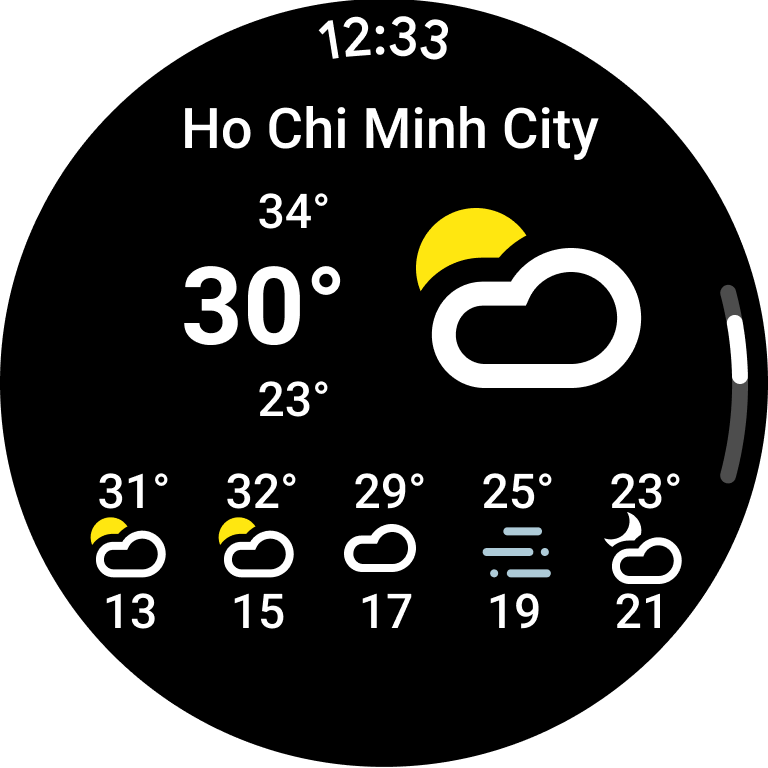
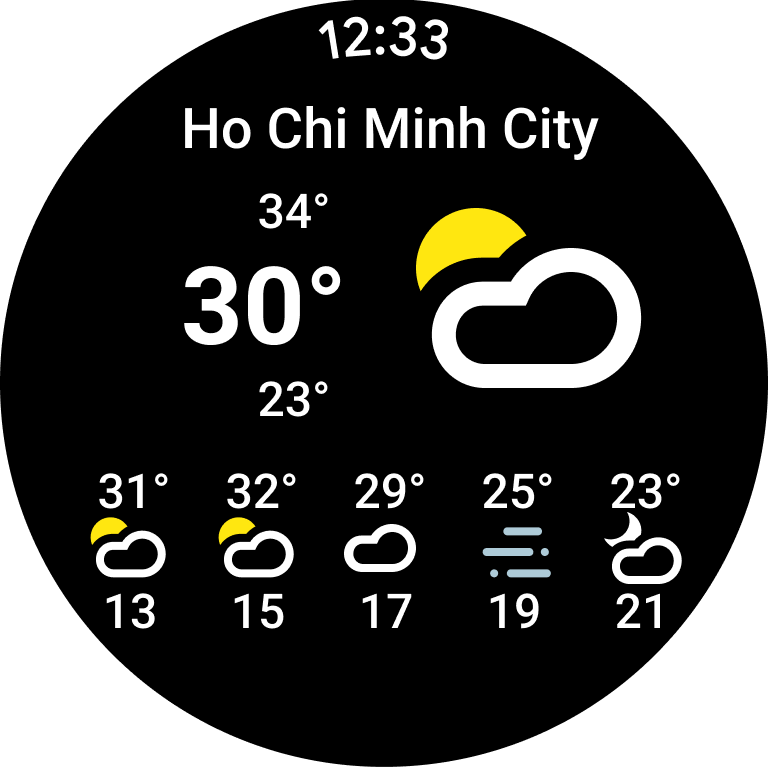
fix display

Changed region(s): [[0.9375, 0.375, 1.0, 0.625]]

diff --git a/lib/template/page_template.dart b/lib/template/page_template.dart
@@ -7,7 +7,7 @@ class PageTemplate extends StatelessWidget {
   final Color color;
 
   // Constructor
-  const PageTemplate({Key? key, required this.child, this.color = Colors.black})
+  const PageTemplate({Key? key, required this.child, this.color = Colors.white})
       : super(key: key);
 
   @override
@@ -18,10 +18,11 @@ class PageTemplate extends StatelessWidget {
     double watchSize = (globalController.getWatchSize());
 
     return Scaffold(
-      backgroundColor: color,
+      backgroundColor: globalController.isCircleDevice() ? Colors.black : color,
       body: Center(
         child: ClipOval(
-          child: SizedBox(
+          child: Container(
+            color: globalController.isCircleDevice() ? Colors.black : color,
             width: watchSize,
             height: watchSize,
             child: child,

diff --git a/lib/clock_widget/widget_demo.dart b/lib/clock_widget/widget_demo.dart
@@ -1,5 +1,4 @@
 import 'package:flutter/material.dart';
-
 import '../template/page_template.dart';
 
 class WidgetTextButtonCircle extends StatelessWidget {
@@ -92,11 +91,6 @@ class WidgetTextCircleV2 extends StatelessWidget {
             width: double.infinity,
             height: double.infinity,
             decoration: BoxDecoration(
-              shape: BoxShape.circle,
-              border: Border.all(
-                color: Colors.black,
-                width: 1.0,
-              ),
               image: imageBg.isNotEmpty
                   ? DecorationImage(
                       image: AssetImage(imageBg),

diff --git a/lib/controller/controller.dart b/lib/controller/controller.dart
@@ -31,6 +31,7 @@ class GlobalController extends GetxController {
   RxInt getIndexWatchFace() => _indexWatchFace;
   double getWatchSize() => _watchSize;
   double getScaleRatio() => _scaleRatio;
+  bool isCircleDevice() => _isCircleDevice;
 // ==================== Setters ============================================
   void setInstalledAppList(Future<List<Application>> appList) {
     installedAppList = appList;
